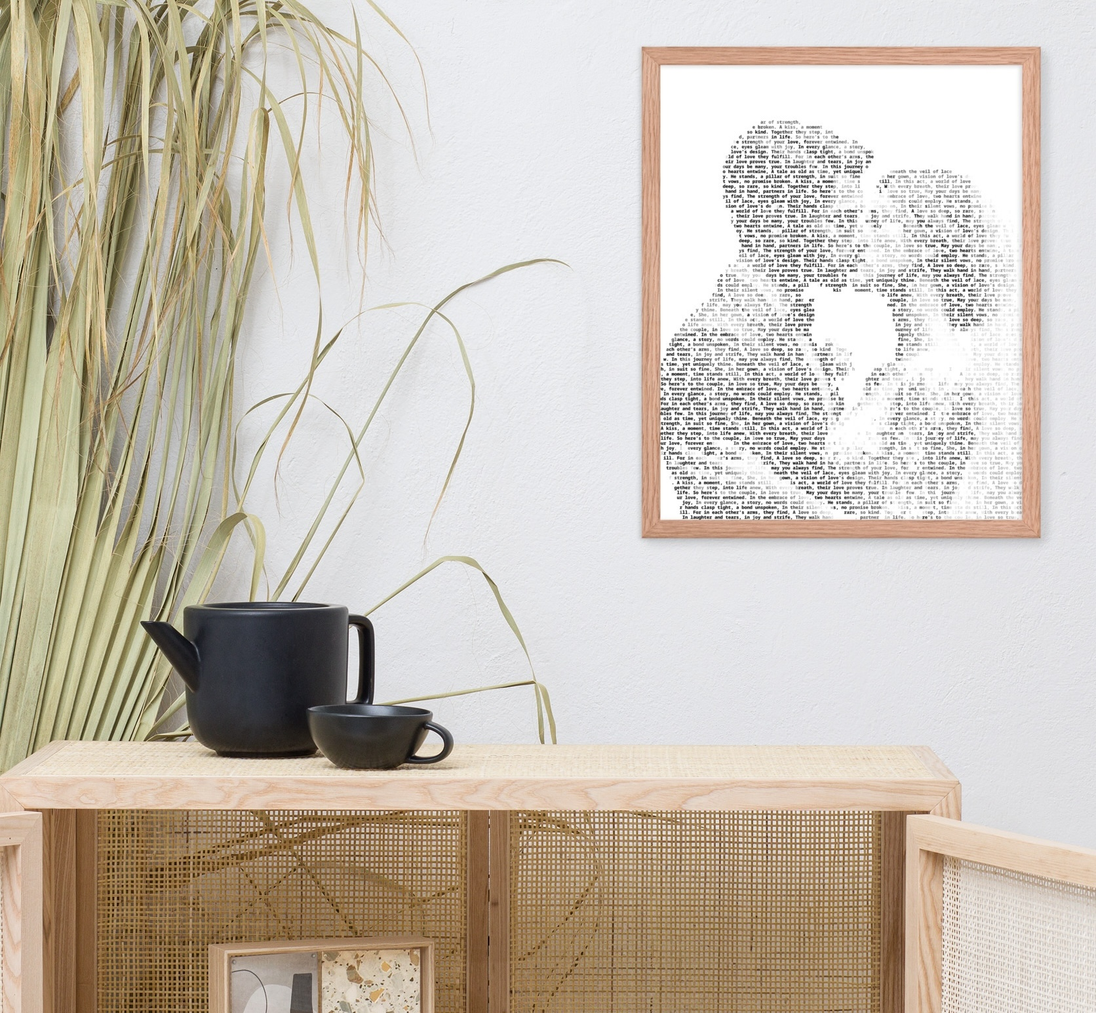
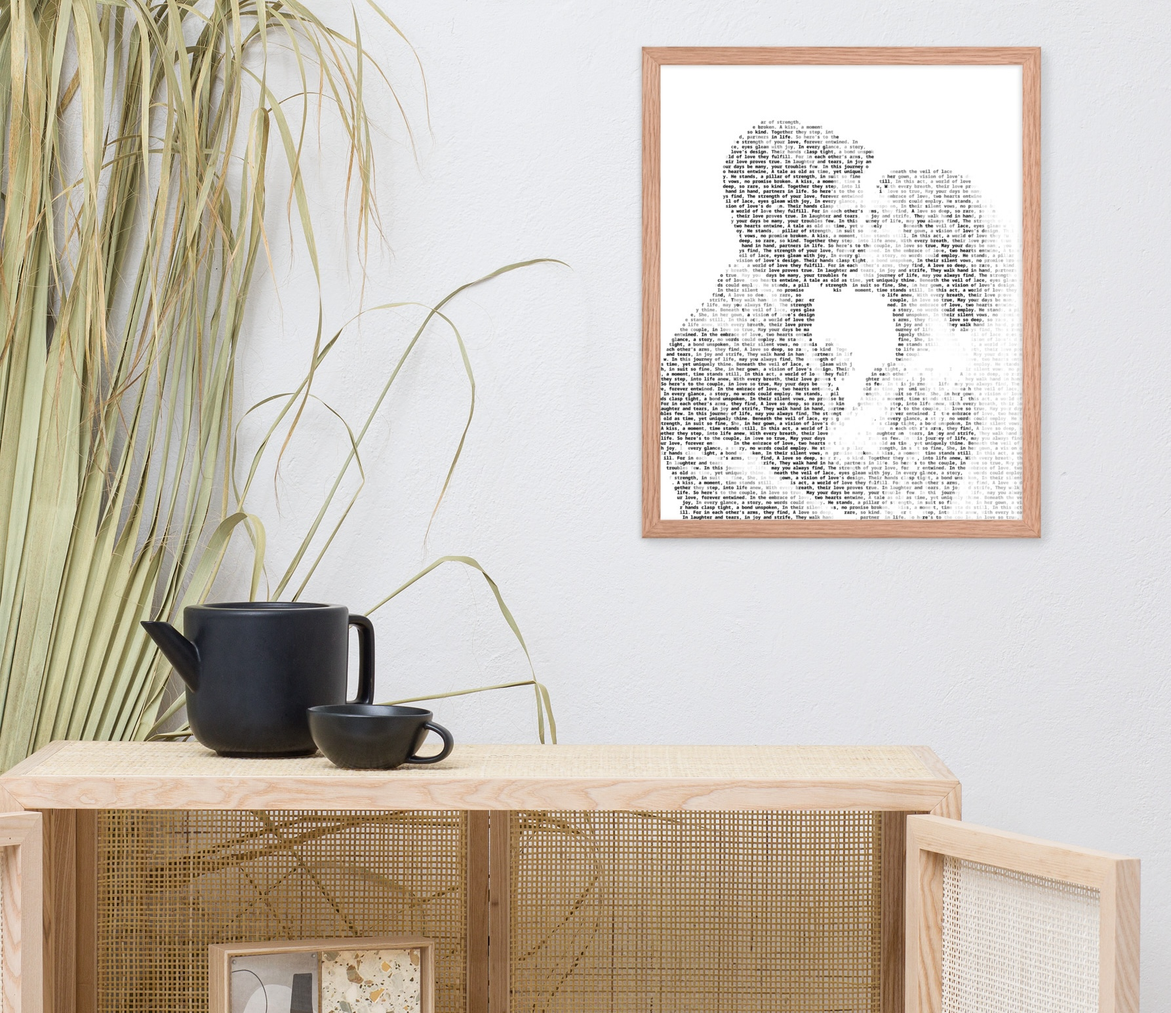
Update MosaicCollection component styling

diff --git a/src/app/components/mosaic/MosaicCollection.tsx b/src/app/components/mosaic/MosaicCollection.tsx
@@ -21,7 +21,7 @@ export default function MosaicCollection() {
       <SingleCollection
         {...item}
         cta="Create your own"
-        imgContainerClassName="md:-mt-8 lg:-mt-28"
+        imgContainerClassName="-mr-10 sm:mr-0 md:-mr-4 md:-mt-8 lg:-mt-24"
       />
     </CollectionSection>
   );
